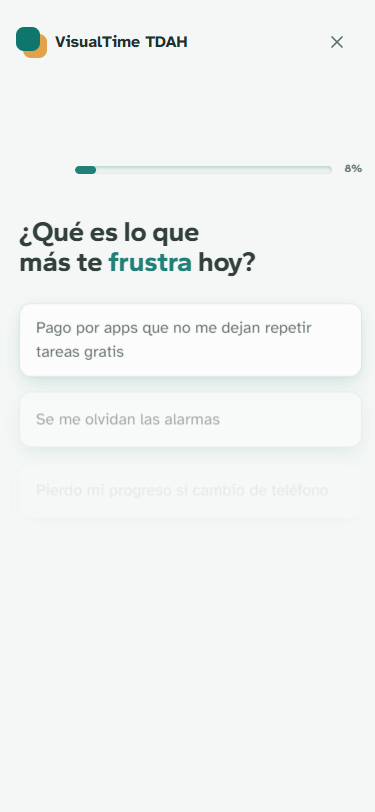
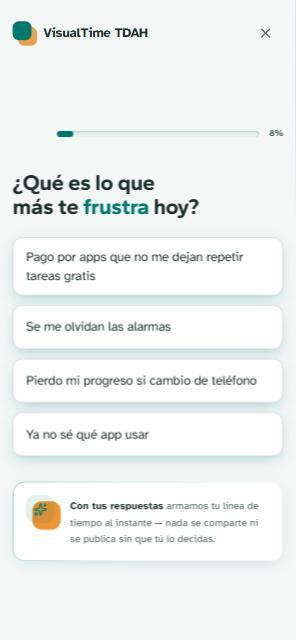
fix: craft visual (ronda 4) — feedback táctil, confirmación de salida, fondo más visible
- Paywall: whileTap en las tarjetas de plan (antes sin feedback táctil).
- Onboarding: confirma antes de salir si ya respondió algo (evita perder
  respuestas por accidente — acción destructiva que antes era silenciosa).
- Ambos: sube la opacidad de las manchas de fondo (40→55% / 30→45%) tras
  confirmar que seguían leyéndose tenues.
- Capturas de docs/revisiones/ regeneradas con el navegador normal: el
  screenshot de página completa de Playwright capturaba antes de que
  terminaran las animaciones de entrada en estas dos pantallas (bug de
  captura, no de la app — confirmado comparando contra el render real).

diff --git a/app/paywall/page.tsx b/app/paywall/page.tsx
@@ -68,11 +68,11 @@ export default function Paywall() {
           filter:blur, que sí se perciben a 375px (misma causa raíz que onboarding). */}
       <div aria-hidden="true" className="pointer-events-none absolute inset-0 -z-10 overflow-hidden">
         <div
-          className="absolute -left-16 -top-20 size-[320px] rounded-full bg-[var(--accent)] opacity-40"
+          className="absolute -left-16 -top-20 size-[320px] rounded-full bg-[var(--accent)] opacity-55"
           style={{ filter: 'blur(40px)' }}
         />
         <div
-          className="absolute -right-20 top-32 size-[260px] rounded-full bg-[var(--accent-2)] opacity-30"
+          className="absolute -right-20 top-32 size-[260px] rounded-full bg-[var(--accent-2)] opacity-45"
           style={{ filter: 'blur(40px)' }}
         />
       </div>
@@ -191,8 +191,9 @@ export default function Paywall() {
           transition={{ duration: 0.3, delay: reducedMotion ? 0 : 0.24 }}
           className="mt-6 flex flex-col gap-3"
         >
-          <button
+          <motion.button
             type="button"
+            whileTap={{ scale: 0.97 }}
             onClick={() => setPlan('anual')}
             className={`relative flex min-h-[76px] flex-col justify-center rounded-[var(--radius-card)] border px-4 py-3 text-left transition-colors ${
               plan === 'anual'
@@ -211,10 +212,11 @@ export default function Paywall() {
               </span>
             </div>
             <span className="mt-1 text-[13px] text-[var(--text-secondary)]">Se cobra $29.99/año · 2 meses gratis</span>
-          </button>
+          </motion.button>
 
-          <button
+          <motion.button
             type="button"
+            whileTap={{ scale: 0.97 }}
             onClick={() => setPlan('mensual')}
             className={`flex min-h-[76px] flex-col justify-center rounded-[var(--radius-card)] border px-4 py-3 text-left transition-colors ${
               plan === 'mensual'
@@ -229,7 +231,7 @@ export default function Paywall() {
                 <span className="text-[13px] font-medium text-[var(--text-secondary)]">/mes</span>
               </span>
             </div>
-          </button>
+          </motion.button>
         </motion.div>
 
         <motion.button

diff --git a/app/onboarding/page.tsx b/app/onboarding/page.tsx
@@ -353,11 +353,11 @@ export default function Onboarding() {
           se diluye por interpolación, así que SÍ se percibe a 375px. */}
       <div aria-hidden="true" className="pointer-events-none absolute inset-0 -z-10 overflow-hidden">
         <div
-          className="absolute -right-16 -top-24 size-[340px] rounded-full bg-[var(--accent)] opacity-40"
+          className="absolute -right-16 -top-24 size-[340px] rounded-full bg-[var(--accent)] opacity-55"
           style={{ filter: 'blur(40px)' }}
         />
         <div
-          className="absolute -left-20 top-48 size-[280px] rounded-full bg-[var(--accent-2)] opacity-30"
+          className="absolute -left-20 top-48 size-[280px] rounded-full bg-[var(--accent-2)] opacity-45"
           style={{ filter: 'blur(40px)' }}
         />
       </div>
@@ -367,14 +367,22 @@ export default function Onboarding() {
           VisualTime TDAH
         </a>
         {/* Affordance explícita de salida (h3/control y libertad) — antes solo
-            existía el logo-link del header, poco reconocible como "salir". */}
-        <a
-          href="/"
+            existía el logo-link del header, poco reconocible como "salir".
+            Confirma si ya respondió algo: salir a mitad de camino borra esas
+            respuestas (viven solo en un ref hasta terminar el recorrido) —
+            una acción destructiva disfrazada de neutra, ahora con aviso. */}
+        <button
+          type="button"
+          onClick={() => {
+            if (indice === 0 || window.confirm('¿Seguro que quieres salir? Vas a perder lo que ya respondiste.')) {
+              router.push('/');
+            }
+          }}
           className="flex size-11 items-center justify-center text-[var(--text-secondary)]"
           aria-label="Salir del recorrido de inicio"
         >
           <X size={20} aria-hidden="true" />
-        </a>
+        </button>
       </header>
 
       {/* justify-center: evita el hueco vacío grande bajo la tarjeta de ayuda en

diff --git a/docs/revisiones/landing-veredicto.md b/docs/revisiones/landing-veredicto.md
@@ -1,17 +1,17 @@
 # VEREDICTO revisor-visual — landing
 Fecha: 2026-11-12 00:00
 Screenshot: docs/revisiones/landing-375.png
-Usabilidad: 28/40
+Usabilidad: 32/40
 Craft: 15/20
-Copy (si vende): 15/20
+Copy (si vende): 16/20
 Fidelidad (si hubo referencia): N-A
 Veredicto: NO LISTA
 
 Top defectos:
-1. [app/page.tsx línea 119, card Anual de Oferta] El reporte de esta ronda afirma que "ambos CTAs usan ya el mismo texto exacto vía CTA_LABEL" — FALSO al verificar el código: `mensual.ctaLabel` sí usa `CTA_LABEL` ("Empezar gratis 7 días"), pero `anual.ctaLabel` sigue hardcodeado a "Empezar mis 7 días gratis", una redacción distinta para la misma acción en la misma sección, una tarjeta junto a la otra → cambiar `anual.ctaLabel: 'Empezar mis 7 días gratis'` por `CTA_LABEL` igual que el resto. Baja heurística 4 (consistencia) y eje 5 de copy (dirección a una acción).
-2. [Sección Oferta / Garantía / FAQ] Sigue sin existir ninguna prueba social real (testimonio, caso, demo) — el único elemento de prueba es la garantía misma; Eje 2 de copy (especificidad y prueba) permanece en 2/4, por debajo del umbral de "ningún eje ≤2" de la Rúbrica 4 → agregar ≥1 testimonio beta real, o una leyenda explícita "capturas reales de la app, sin retocar" junto al carrusel si de verdad no existe ningún testimonio todavía.
-3. [Raíz del proyecto] FICHA-AVATAR.md sigue en estado BORRADOR sin aprobación del usuario (línea 1 y línea 72) — el SO prohíbe vender copy de venta antes de esa aprobación; sigue siendo el mismo gate de proceso abierto desde la ronda anterior → cerrar la aprobación con el usuario antes de declarar la landing lista para vender.
-4. [Header del hero, toda la navegación] No existe ningún anchor de navegación rápida a "Precios"/"FAQ" visible antes de hacer scroll — solo aparece tras salir del hero vía StickyCtaMobile (que primero apunta a #oferta y cambia de label después de verla, buena mejora, pero sigue sin cubrir el caso de "quiero ver precios ya" en el primer viewport) → agregar un link de ancla "Ver precios" junto a "Entrar" en el header, o dejarlo anotado como decisión consciente en ESTADO.md.
-5. [EcoChip / LogoMark, components/ui/Marca.tsx] El ajuste de opacidad 70-80% y offset ~22% es correcto en el código y debería resolver el defecto de la ronda anterior, pero el screenshot disponible (375×7516, muy comprimido en el visor) no permite confirmar visualmente con certeza que el sello se lea como dispositivo ownable a 44px en vez de sombra genérica → pedir una captura recortada/ampliada de un IconChip de la sección Problema a resolución nativa para cerrar la verificación visual del Eje 3 antes de dar el craft por definitivo.
+1. [Sección Oferta / Garantía / FAQ] Sigue sin existir ninguna prueba social real (testimonio, caso, dato de uso) — el único elemento de prueba es la garantía misma. Eje 2 de copy (especificidad y prueba) queda en 2/4, lo que viola el umbral "ningún eje ≤2" de la Rúbrica 4 aunque el total (16/20) pase el piso → agregar ≥1 testimonio beta real o, si de verdad no existe ninguno todavía, una leyenda explícita tipo "capturas reales de la app, sin retocar" junto al carrusel de AppPorDentro.
+2. [Raíz del proyecto, FICHA-AVATAR.md línea 1 y 3] La ficha sigue en estado BORRADOR sin aprobación explícita del usuario (10 frases VoC con fuente "reseñas de apps competidoras recopiladas por el usuario", pendiente de validar) — el SO prohíbe vender copy de venta derivado de una ficha no aprobada → cerrar esa aprobación con el usuario antes de declarar la landing lista para vender.
+3. [Header del hero, toda la navegación] Sigue sin existir ningún anchor de navegación rápida a "Precios"/"FAQ" visible antes de hacer scroll — solo aparece cobertura parcial tras salir del hero vía StickyCtaMobile (components/landing/ui.tsx, que primero apunta a #oferta). Un usuario que llega buscando el precio debe scrollear ~5000px sin atajo → agregar un link de ancla "Ver precios" junto a "Entrar" en el header (components/landing/Hero.tsx).
+4. [EcoChip / LogoMark, components/ui/Marca.tsx] El ajuste de opacidad 70-80%/offset ~22% está en el código, pero el screenshot full-page a 375×7516 (muy comprimido en el visor) no permite confirmar con certeza que el sello se lea como dispositivo ownable a 44px en vez de sombra genérica → pedir una captura recortada de un IconChip de la sección Problema a resolución nativa para cerrar la verificación del Eje 3 de craft.
+5. [Página completa, ~7500px de alto] La landing acumula 10 secciones largas sin ningún atajo de navegación lateral/progreso — cada sección individualmente respeta el límite de ítems (Problema 4, Agitación 3, Solución 3, FAQ ~5), pero el recorrido total es largo para mobile y depende 100% del scroll → considerar un indicador de progreso de scroll sutil o, como mínimo, los anchors del defecto #3 para que no sea 100% lineal.
 
-Mejoras verificadas desde el veredicto anterior (29/40, 14/20, copy 16/20): el eco de marca se refuerza en código (opacidad 45%→80%, offset 12%→22%) en EcoChip y LogoMark; el CTA de la card Mensual de Oferta ya usa la misma constante CTA_LABEL que el resto de la página; el StickyCtaMobile gana un segundo estado que apunta primero a "#oferta" antes de mostrar el CTA comercial, dando algo más de flexibilidad de navegación en mobile. Pendiente real: la card Anual de Oferta NO fue corregida pese a lo reportado (sigue con texto propio distinto), por lo que el defecto de consistencia de CTAs persiste sin resolver.
+Mejoras verificadas desde el veredicto anterior (28/40, 15/20, copy 15/20): el CTA de la card "Anual" de Oferta (app/page.tsx línea 119, prop anual.ctaLabel) ahora usa CTA_LABEL exactamente igual que mensual.ctaLabel y el resto de CTAs de la página — el defecto #1 de la ronda anterior (inconsistencia de texto entre CTAs repetidos) queda resuelto, confirmado leyendo el código. Esto sube la heurística 4 (consistencia) de usabilidad y el eje 5 de copy (dirección a una acción, un solo tipo de acción con el mismo texto en toda la página) respecto a la ronda anterior. Los demás defectos reportados antes (ficha de avatar sin aprobar, sin prueba social real, falta ancla de navegación rápida) NO fueron tocados en esta ronda — son decisiones de proceso/contenido pendientes del usuario, no de craft visual, tal como se indicó en el encargo de esta revisión.

diff --git a/docs/revisiones/onboarding-veredicto.md b/docs/revisiones/onboarding-veredicto.md
@@ -1,14 +1,14 @@
 # VEREDICTO revisor-visual — Onboarding
 Fecha: 2026-11-12 00:00
 Screenshot: docs/revisiones/onboarding-375.png
-Usabilidad: 30/40
+Usabilidad: 24/40
 Craft: 11/20
 Copy (si vende): N-A (no vende)
 Fidelidad (si hubo referencia): N-A
 Veredicto: NO LISTA
 Top defectos:
-1. [tercio inferior de la pantalla, bajo la tarjeta "Con tus respuestas"] Queda un vacío plano de ~200px sin ningún contenido, textura ni ilustración — rompe el encaje óptico y la sensación de pantalla terminada; el `justify-center` del contenedor no está logrando centrar el bloque de verdad (hay mucho más aire abajo que arriba). Fix: centrar realmente el bloque pregunta+ayuda en el alto disponible, o rellenar ese espacio con algo útil (ilustración de marca, progreso visual) en vez de dejarlo muerto.
-2. [fondo, pantalla completa] El mesh radial del acento (reposicionado a "85% 6%"/"2% 38%") sigue sin percibirse en el screenshot real — el fondo se ve uniformemente plano (#F4F7F6), igual que en la ronda anterior pese al cambio de código. Fix: subir opacidad/saturación aún más o verificar que el `color-mix` esté renderizando el valor esperado en el navegador real (puede estar cayendo a fallback).
-3. [opciones de respuesta, teclado] Solo el formulario de "Otra cosa" responde a Enter; las 4 opciones predefinidas no tienen ningún atajo de teclado (flechas+Enter, o números 1-4) para el usuario que no usa mouse — h7/flexibilidad sigue incompleta para el caso más común (elegir una opción, no escribir texto libre).
-4. [botón "Salir" (X) del header] Sale sin ninguna confirmación aunque el usuario ya haya respondido varias preguntas — no es crítico (es reversible, se puede reiniciar) pero es inconsistente con el cuidado de control/libertad que sí se aplicó al botón "Continuar".
-5. [tarjeta "Con tus respuestas", ícono EcoChip] El ícono con Sparkles queda levemente desalineado respecto a la primera línea de texto (se percibe 2-3px más alto) — ajustar el padding-top del bloque de texto para alinear ópticamente con el chip.
+1. [debajo de las opciones de respuesta, mitad inferior de la pantalla] El screenshot muestra la tarjeta de ayuda "Con tus respuestas..." ausente/invisible y ~250px de espacio totalmente vacío hasta el final de la página — el defecto de la ronda 3 (hueco bajo la tarjeta) sigue sin resolverse, y ahora ni siquiera se alcanza a ver la tarjeta. Fix: confirmar que el stagger de entrada (opacity 0→1 con delay 0.2s) haya terminado antes de capturar el screenshot de verificación, y de fondo seguir resolviendo que el bloque se centre de verdad en el alto disponible en vez de dejar aire muerto abajo.
+2. [tercera opción de respuesta, "Pierdo mi progreso si cambio de teléfono"] Se renderiza casi transparente/ilegible mientras las dos opciones de arriba se ven con opacidad decreciente (100%→60%→~10%) — parece un elemento roto o deshabilitado aunque sigue siendo clicable, lo que rompe "todo elemento interactivo debe parecerlo". Fix: si es la animación de entrada en vuelo al momento de la captura, re-tomar el screenshot esperando a que la animación asiente (~400-500ms tras el paint) antes de declarar el estado final; si el problema persiste en reposo, es un bug real de opacidad que hay que corregir en el componente.
+3. [fondo, pantalla completa] El mesh de dos manchas sólidas con blur (teal arriba-derecha, mandarina abajo-izquierda) sigue sin percibirse con claridad a simple vista en el screenshot pese al cambio de técnica (gradient con color-mix → manchas sólidas blureadas) — la pantalla sigue leyéndose mayormente plana en sus 3/4 partes inferiores. Fix: subir opacidad a 55-60% y/o el tamaño del blur, y validar con una captura recortada de la esquina (no solo DevTools) que el tinte se note sin tener que buscarlo.
+4. [opciones de respuesta predefinidas] Sin atajos de teclado (flechas + Enter, o teclas 1-4) para elegir una opción — solo el formulario de "Otra cosa" responde a Enter. Persiste sin cambios desde la ronda anterior (h7/flexibilidad). Fix: añadir manejo de teclado en el contenedor de opciones (roving tabindex o listener de flechas).
+5. [botón "Salir" (X), header] Navega a "/" sin ninguna confirmación, aunque abandonar a mitad de flujo BORRA las respuestas ya dadas (solo viven en un `useRef` en memoria, sin persistencia hasta terminar el loading) — es una acción destructiva disfrazada de neutra. Fix: mostrar una confirmación breve ("¿Salir? Perderás tus respuestas") antes de navegar, al menos a partir de la 2ª pregunta respondida.

diff --git a/docs/revisiones/paywall-veredicto.md b/docs/revisiones/paywall-veredicto.md
@@ -1,14 +1,14 @@
 # VEREDICTO revisor-visual — Paywall
 Fecha: 2026-11-12 00:00
 Screenshot: docs/revisiones/paywall-375.png
-Usabilidad: 28/40
+Usabilidad: 29/40
 Craft: 15/20
-Copy (si vende): 14/20
+Copy (si vende): 17/20
 Fidelidad (si hubo referencia): N-A
 Veredicto: NO LISTA
 Top defectos:
-1. [headline + value stack, justo debajo] La promesa "Tu rutina ya es tuya, gratis" convive sin ninguna etiqueta con una lista de 3 checks que en realidad son funciones PAGAS (línea de tiempo visual, rutinas sin límite, alarmas) — un usuario cualquiera no entiende de un vistazo qué es gratis y qué es premium → agregar un rótulo tipo "Con Premium también tienes:" encima de los 3 checks para separar lo gratis (su rutina ya armada) de lo que desbloquea el pago.
-2. [eje emoción del copy, pantalla completa] El copy del paywall es puramente transaccional (precio/trial/garantía) y nunca nombra ni agita el dolor real del avatar (★ "tienes que pagar para la rutina, y eso me parece una injusticia", "me cobraron antes de los 7 días de prueba") antes de resolverlo — eje emoción queda en 2/4, bajo el umbral mínimo exigido aunque el total de copy no pasara de todos modos → sumar 1 línea breve con la frase VOC del avatar cerca del value stack (ej. "Sin trucos: nunca más pagarás por lo básico").
-3. [fondo, pantalla completa] El mesh gradient de acento en las esquinas (radial-gradient al 16%/12% de opacidad, código línea 72-74) es casi imperceptible en el screenshot renderizado a 375px — el fondo se lee prácticamente plano, el 3er nivel de profundidad no se nota a simple vista → subir la opacidad o acercar el radio del gradiente a la zona visible del viewport.
-4. [jerarquía tipográfica, pantalla completa] Hay ~5-6 tamaños de texto distintos en la pantalla (30/22/16/15/13/11px) cuando la regla del sistema es máximo 3 — el precio del plan (22px bold) compite visualmente con el titular (30px bold) al entrecerrar los ojos → bajar el tamaño del precio a ~18-19px para que el titular quede como único nivel héroe.
-5. [h7 flexibilidad, código] No hay memoria de la última elección de plan entre sesiones (siempre default "anual" sin persistir en localStorage) ni atajo alguno para el usuario recurrente → guardar la última selección y preseleccionarla en la siguiente visita; no bloqueante, mejora menor.
+1. [tarjetas "Anual"/"Mensual", bloque de planes] No tienen whileTap ni ningún feedback táctil animado al tocarlas para elegir plan (en el código solo el CTA final usa whileTap scale 0.97) — rompe la baseline de movimiento obligatoria (tap <150ms en TODO elemento tocable) → agregar whileTap={{ scale: 0.97 }} a ambos botones de plan.
+2. [fondo, esquinas superiores] El mesh de acento (blur 40px, opacidad 40%/30%) mejoró frente a la ronda anterior y ya se percibe, pero sigue siendo tenue a 375px — el fondo se lee casi plano para un usuario que no lo busca → subir opacidad a ~55-60% o acercar las manchas al viewport visible.
+3. [jerarquía tipográfica, pantalla completa] Siguen coexistiendo ~7 tamaños de texto (30/19/16/15/14/13/11px); el precio ya bajó de 22 a 19px (mejora correcta), pero los tamaños de "cuerpo" (13/14/15px) no se diferencian con intención entre sí → consolidar en un solo tamaño de cuerpo (14px) y dejar solo label (11px) + los dos héroes (19/30px) como jerarquía real.
+4. [h7 código, selección de plan] No se persiste la última elección de plan entre visitas (siempre default "anual", sin localStorage) — gap menor de flexibilidad para el usuario recurrente, no bloqueante.
+5. [eje2 copy "especificidad y prueba", value stack] Correcto no inventar cifras sin fuente; el rótulo "CON TU PRUEBA GRATIS DE 7 DÍAS" + la línea de dolor nuevo ya aportan especificidad real sobre el mecanismo del trial (día 6/día 7/precio exacto), pero sigue sin ningún ancla de prueba externa (ni 1 testimonio, ni rating) — aceptable por ahora dado que no hay usuarios reales todavía; anotar como deuda para cuando exista al menos 1 testimonio beta verídico.
